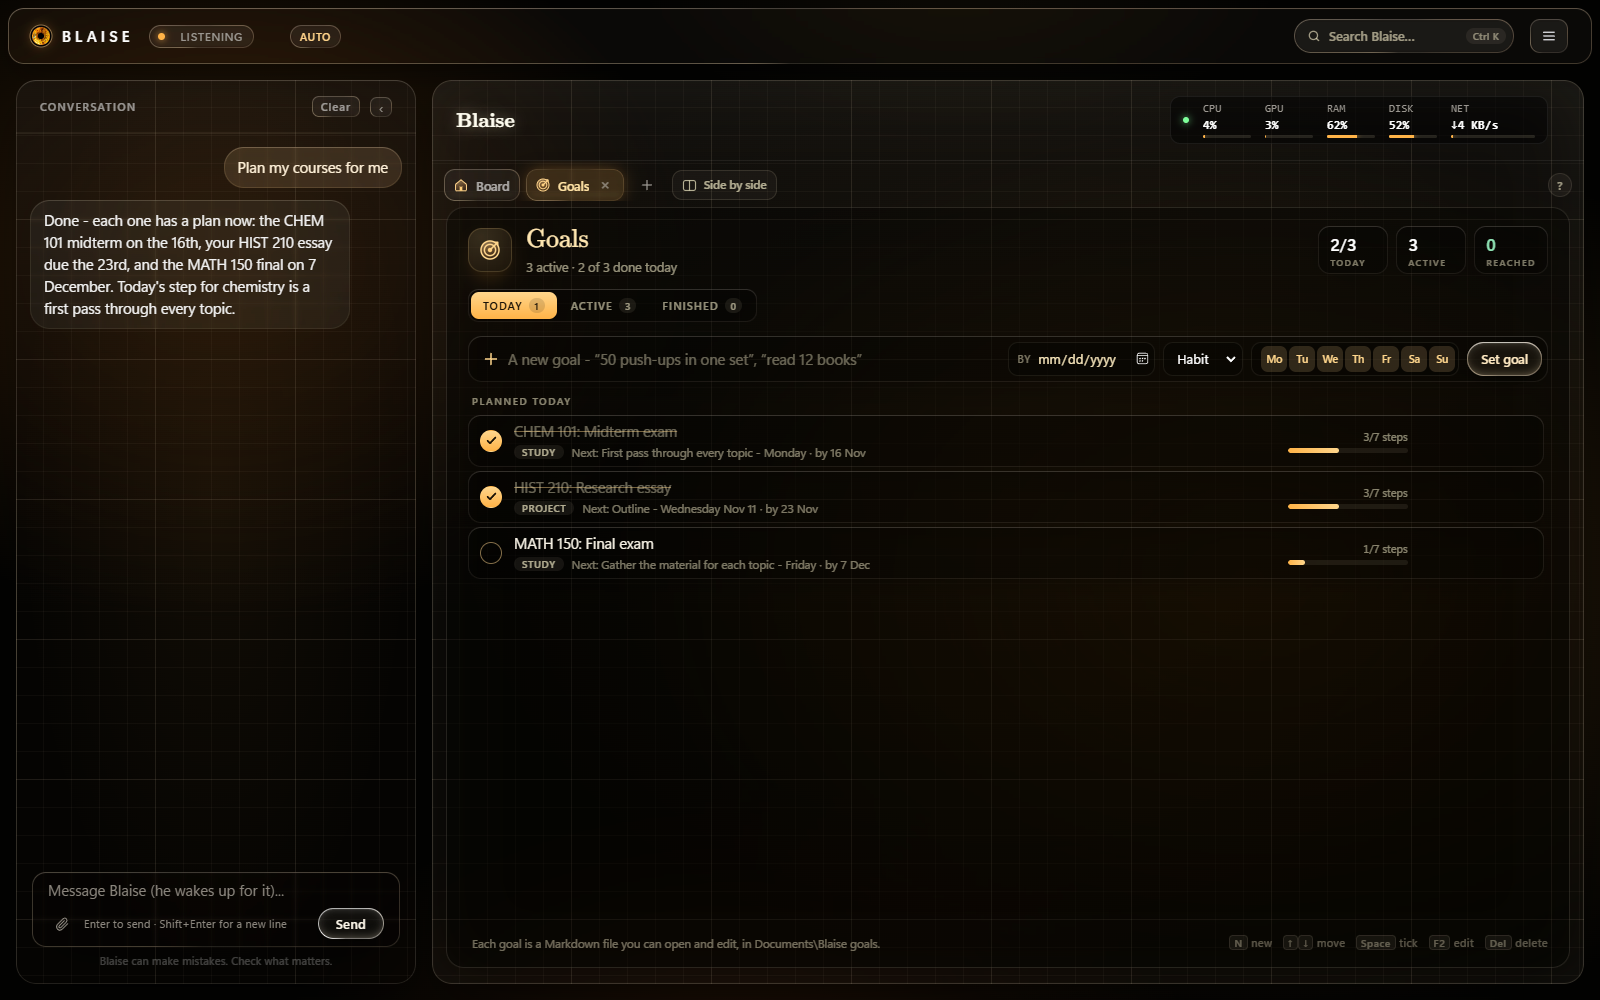
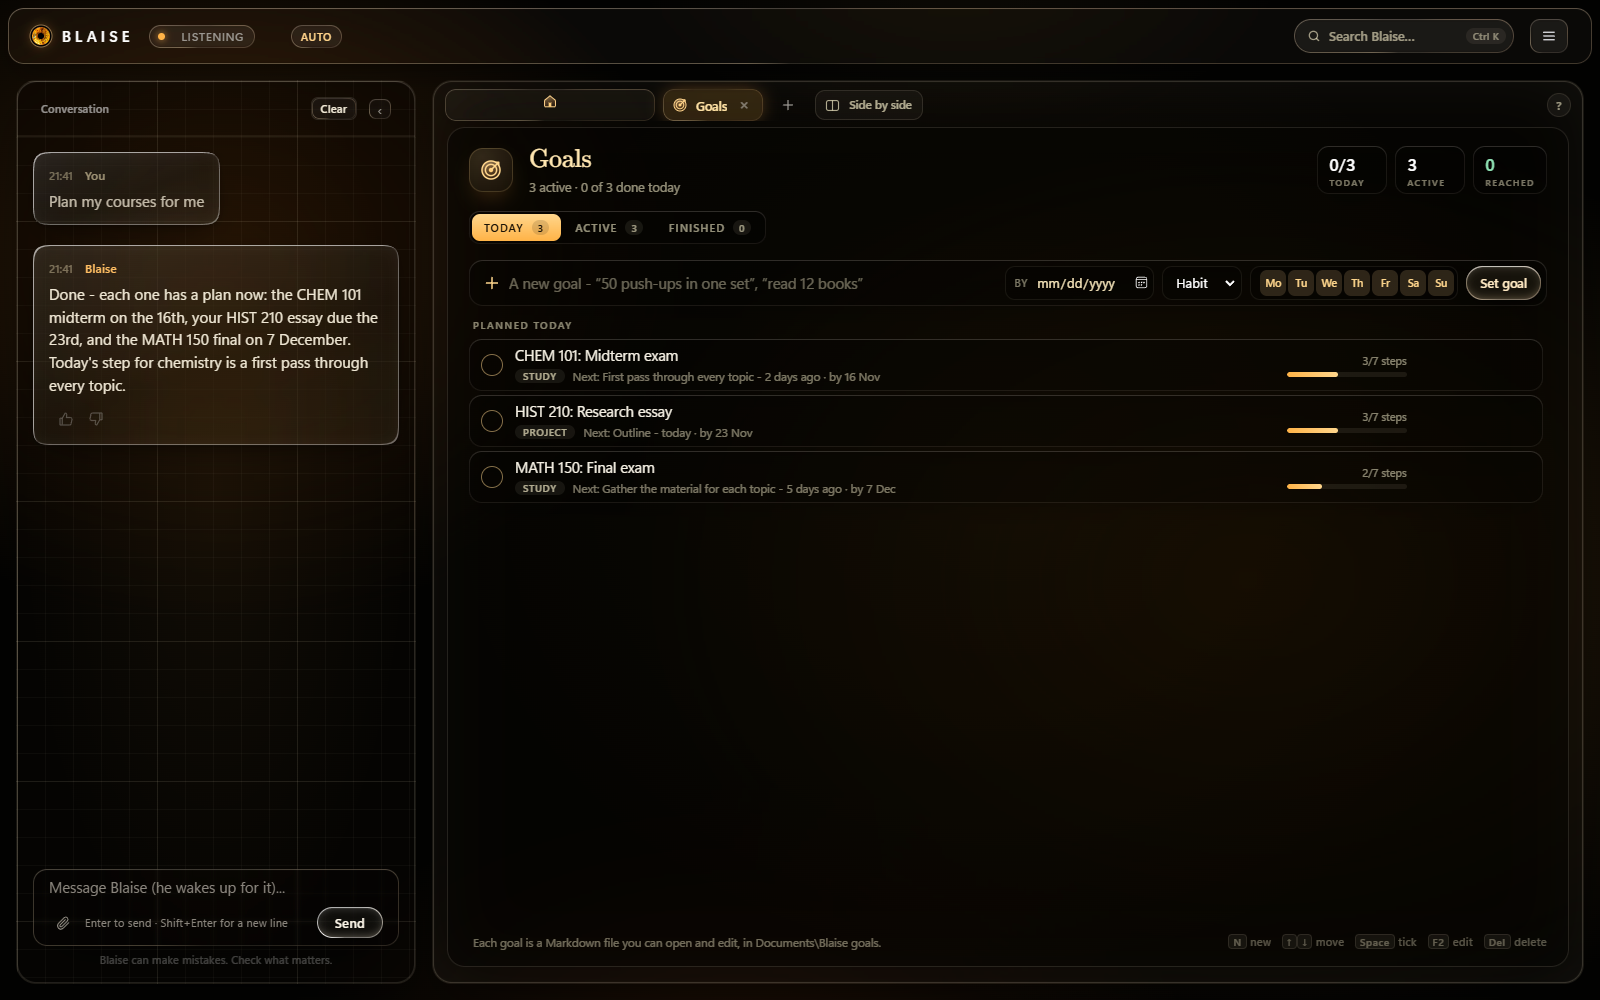
Blaise 4.1.0: new screenshots and version info

diff --git a/README.md b/README.md
@@ -1,40 +1,32 @@
 # Blaise — the study assistant that checks its own work
 
-**PUBLIC RELEASE v4.0.1 · Windows**
+**PUBLIC RELEASE v4.1.0 · Windows**
 
-![Blaise checking a balanced redox equation and saying it was worked out exactly, not guessed](images/checked.png)
+![Blaise's home screen: the clock, the eye with its progress rings, and three cards for what's next, the nearest exam and today's flash cards](images/home.png)
 
 Blaise is a voice assistant for students that lives on your PC. Say *"Blaise"* and talk, or type.
 
-## New in 4.0: your whole course, run for you
+## New in 4.1: a calmer look, virus scans and storage clean-up
 
-- **Course Autopilot.** Connect Canvas, Google Classroom or Teams and say *"plan my courses"*. Every exam and big
-  assignment becomes a goal with steps timed to its date: flash cards, practice and a mock exam for exams; read the
-  brief, research, outline, draft, revise and hand in for essays and projects.
-- **Every answer checked.** Chemistry is now worked out exactly: balancing equations (redox and ions too), molar masses,
-  grams to moles. It sits next to the checked maths and units. Before Blaise says your answer is right or wrong, he
-  checks it.
-- **Blaise in your pocket.** On a call from your phone, tap *Snap a problem* and photograph a worksheet. It goes straight
-  to your PC, encrypted like your voice, and Blaise helps you with it there and then.
-- **A tutor over your shoulder.** *"Sit with me while I do my homework"*: he speaks up for a clear mistake, and if you
-  seem stuck for a few minutes he offers a small nudge, never the answer.
-- **My progress.** What you really remember, your honest score, goals reached on time and what you got done this week,
-  all from your own records. Nothing is estimated or made up.
-- **A sharper brain and 30 voices.** Better at corrections, dates and deadlines, and plans that clash. You can pick
-  Gemini's voices and a calm Butler AI tone, and choose what Blaise calls you.
-
-## Fixed in 4.0.1
-
-- **Typing to Blaise while he's asleep works again:** your message wakes him and he answers it. Before, it woke him
-  but the message itself was lost.
-- **What's new is easier to read:** only the list scrolls, it shows the version names you know (4.0.1, not 7.0.1), and
-  fixes you can see come with a picture of what changed.
+- **A calmer look.** The home screen sits on one centre line: the clock, the eye, and three small cards for what's
+  next, your nearest exam or goal, and today's flash cards. The rings round the eye fill up as you get through today's
+  plan and your cards. The glow and extra shadows are gone.
+- **A chat that reads like a log.** Glass bubbles, all on the left, and Blaise's words write themselves out as he
+  speaks.
+- **A calmer blackboard.** Your question on one line, the steps numbered down a single line, and the answer in one card.
+- **Virus scans.** *"Scan my computer for viruses"*, *"scan my Downloads"* or *"am I protected?"*: Blaise runs Windows
+  Defender for you and tells you what it found. He never changes a security setting.
+- **Storage clean-up.** *"What's taking up space?"* shows your biggest folders and files, old installers, temporary
+  files and the Recycle Bin. Blaise frees space only after you say yes, and files you might want back go to the
+  Recycle Bin.
+- **Easier Settings.** Search them (Ctrl+F), and the sections open and close.
+- **Blaise knows what he can do.** Ask *"can you...?"* and he answers from his real abilities.
 
 ## See it
 
-| Course Autopilot: every exam and essay planned | My progress, from your own records |
+| A worked answer, step by step and checked | Course Autopilot: every exam and essay planned |
 |---|---|
-| ![Goals for a chemistry midterm, a history essay and a maths final, each with steps done and the next step](images/courses.png) | ![My progress: 84% of flash card reviews remembered, 7 tasks done this week and each course goal's steps](images/progress.png) |
+| ![A worked integral on the board: numbered steps down one line and the answer in one card, marked as checked](images/board.png) | ![Goals for a chemistry midterm, a history essay and a maths final, each with steps done and the next step](images/courses.png) |
 
 **A graphing calculator built in.** Ask for a graph by voice or type it, in 2D or 3D, with limits, integrals and visual
 proofs:
@@ -42,6 +34,19 @@ proofs:
 ![A cubic and its derivative on Blaise's graph, with the turning points marked](images/graph.png)
 
 *Screenshots show Blaise's real window with demo content.*
+
+## From 4.0: your whole course, run for you
+
+- **Course Autopilot.** Connect Canvas, Google Classroom or Teams and say *"plan my courses"*. Every exam and big
+  assignment becomes a goal with steps timed to its date.
+- **Every answer checked.** Maths, units and chemistry are worked out exactly. Before Blaise says your answer is right
+  or wrong, he checks it.
+- **Blaise in your pocket.** On a call from your phone, tap *Snap a problem* and photograph a worksheet. It goes straight
+  to your PC, encrypted like your voice.
+- **A tutor over your shoulder.** *"Sit with me while I do my homework"*: he speaks up for a clear mistake and offers a
+  small nudge when you're stuck, never the answer.
+- **My progress.** What you really remember, goals reached on time and what you got done this week, all from your own
+  records.
 
 ## Also in Blaise
 
@@ -55,7 +60,7 @@ proofs:
 
 ## Download
 
-1. Open **[Releases](../../releases/latest)** and download **Blaise-4.0.1-Setup.exe** (about 160 MB).
+1. Open **[Releases](../../releases/latest)** and download **Blaise-4.1.0-Setup.exe** (about 160 MB).
 2. Run it. Because Blaise isn't code-signed yet, Windows may show **"Windows protected your PC"**. Click
    **More info → Run anyway**. Updates after that are different: every update is checked against Blaise's own
    signature before it installs.
